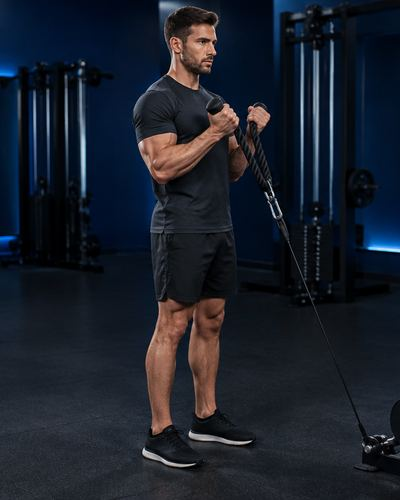
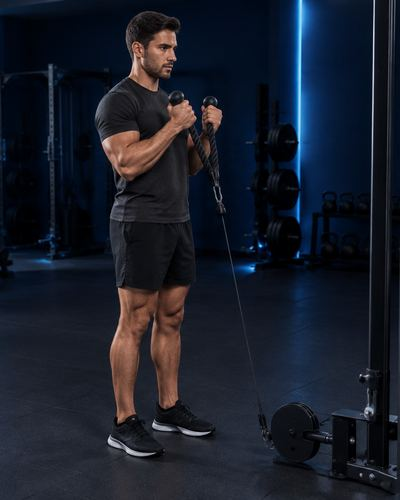
Übungsfotos nach Trainerprüfung neu, Schlafenszeit je Wochentag vor Kalender
Neu erzeugt: Trizepsdrücken einarmig, Curl mit Stange, Hammer Curl mit Seil
und einarmig am Kabel (zum Turm gedreht, Kabel gerade), Hip Thrust an der
Multipresse in der Endposition, Reverse Fly und Rudern eng und breit auf der
Schrägbank mit Brust auf dem Polster, Bankdrücken an der Multipresse.
Pushdown liegend jetzt auf der Schrägbank im Winkel des Kabels mit gerader
Stange.

Die Schlafenszeit je Wochentag aus daevo geht einem SLEEP Eintrag im
Kalender vor. Nach dem Speichern des Profils werden die Mitteilungen neu
geplant.

Claude-Session: https://claude.ai/code/session_01MPv65TyRWfLE6TBM7iE6xk

diff --git a/apps/pwa/js/mitteilungen.js b/apps/pwa/js/mitteilungen.js
@@ -13,17 +13,21 @@
  *
  * Kein `document`, kein `window`: das Modul läuft auch in den Tests.
  */
-import { LUECKE_UHRZEIT, NACHFRAGE_UHRZEIT, erinnerungAmTag, erinnerungUhrzeit, impulseFuerTag, morgenUhrzeit, nachfrageNoetig, schlafenszeitAusKalender, tagesrandFuer } from "@daevo/core";
+import { LUECKE_UHRZEIT, NACHFRAGE_UHRZEIT, erinnerungAmTag, erinnerungUhrzeit, impulseFuerTag, morgenUhrzeit, nachfrageNoetig, schlafenszeitAusKalender, tagesrandFuer, wochentagVon } from "@daevo/core";
 
 /**
- * Aufsteh und Schlafenszeit eines Tages für die Mitteilungen. Steht abends ein
- * Eintrag wie "SLEEP" im Kalender, gilt dessen Beginn, denn wer seinen Schlaf
- * so plant, plant ihn je Tag. Nur eine Ausnahme, die für genau diesen Tag
- * gesagt wurde ("heute gehe ich um 23 Uhr ins Bett"), wiegt mehr.
+ * Aufsteh und Schlafenszeit eines Tages für die Mitteilungen. Was der Nutzer
+ * in daevo eingetragen hat, gilt zuerst: die Ausnahme für genau diesen Tag,
+ * dann die Zeit je Wochentag aus dem Profil. Erst wenn dort für diesen Tag
+ * nichts steht, zählt ein Eintrag wie "SLEEP" im Kalender, und danach der
+ * Schnitt. Der Betreiber pflegt seine Zeiten je Tag in der App, und ein
+ * Kalendereintrag darf sie nicht still überschreiben.
  */
 export function randMitKalender(profil, tag, termine = []) {
   const rand = tagesrandFuer(profil, tag);
   if (profil.tagesausnahmen?.[tag]?.sleepTime) return rand;
+  const wt = wochentagVon(tag);
+  if (profil.randModus === "wochentag" && wt !== null && profil.wochenraender?.[String(wt)]?.sleepTime) return rand;
   const ausKalender = schlafenszeitAusKalender(termine, tag);
   return ausKalender ? { ...rand, sleepTime: ausKalender } : rand;
 }

diff --git a/apps/pwa/js/uebungen-daten.js b/apps/pwa/js/uebungen-daten.js
@@ -2701,8 +2701,8 @@ export const UEBUNGEN = [
  },
  {
   "id": "trizeps-pushdown-abgelegt",
-  "name": "Trizeps Pushdown liegend auf der Bank",
-  "nameEn": "Lying Cable Triceps Pushdown",
+  "name": "Trizeps Pushdown liegend auf der Schrägbank",
+  "nameEn": "Lying Incline Cable Triceps Pushdown",
   "pattern": "elbow_extension",
   "primaryMuscles": [
    "Trizeps"
@@ -2713,23 +2713,24 @@ export const UEBUNGEN = [
   "mechanics": "isolation",
   "repRange": "10-15",
   "steps": [
-   "Flachbank vor den Kabelturm, auf den Rücken legen, Kopf zum Turm, Kabel oben",
-   "Schulterbreite Stange im Obergriff auf Kinnhöhe, Ellbogen eng am Körper",
+   "Schrägbank vor den Kabelturm, hohes Ende zum Turm, so steil, dass das Kabel parallel zur Lehne läuft",
+   "Rücklings auf die Bank, gerade Stange schulterbreit im Obergriff auf Kinnhöhe",
    "Stange parallel zum Oberkörper nach unten drücken, bis die Arme gestreckt sind",
-   "Eng am Oberkörper entlang zurück bis auf Kinnhöhe führen"
+   "Eng am Oberkörper entlang zurück bis auf Kinnhöhe, Ellbogen bleiben am Körper"
   ],
   "gruppe": "arme",
   "video": {
-   "id": "BetlNLcfj70",
-   "titel": "Trizeps liegend auf der Flachbank mit dem Seilzug",
+   "id": "ydFzbnIIjlc",
+   "titel": "Trizepsdrücken auf der Schrägbank sitzend am Kabelzug",
    "kanal": "Masterfitness Academy",
-   "dauer": "0:33"
+   "dauer": "0:18"
   },
   "alias": [
    "Pushdown abgelegt",
    "Pushdown auf der Bank",
    "Pushdown liegend",
-   "Trizepsdrücken liegend"
+   "Trizepsdrücken liegend",
+   "Pushdown Schrägbank"
   ]
  },
  {

diff --git a/apps/pwa/js/healthkit.test.js b/apps/pwa/js/healthkit.test.js
@@ -157,6 +157,21 @@ test("vor dem Schlafen folgt der Schlafenszeit des Tages, auch aus einem SLEEP E
   assert.equal(plan.find((m) => m.id === `runterfahren-${HEUTE}`).uhrzeit, "23:00", "Runterfahren 45 Minuten vor 23:45");
 });
 
+test("die Schlafenszeit je Wochentag aus daevo geht dem Kalender vor", async () => {
+  frisch();
+  const { mitteilungsPlan } = await import("./mitteilungen.js");
+  const ms = (tag, hhmm) => new Date(`${tag}T${hhmm}:00`).getTime();
+  store.setSettings({ ...store.getSettings(), eigeneErinnerungen: [{ id: "sup", text: "Schlaf Supplements", bezug: "schlafen", versatz: -60, tage: [] }] });
+  store.setKalender({ termine: [{ uid: "s1", titel: "SLEEP", ort: "", von: ms(HEUTE, "23:45"), bis: ms("2026-10-20", "07:00"), ganztags: false }] });
+  // 2026-10-19 ist ein Montag.
+  store.setProfile({ ...store.getProfile(), randModus: "wochentag", wochenraender: { "1": { sleepTime: "22:30" }, "2": { sleepTime: "00:15" } } });
+  const plan = mitteilungsPlan({ store, jetzt: { tag: HEUTE, uhrzeit: "06:00" } });
+  const zeit = (tag) => plan.find((m) => m.id === `eigene-sup-${tag}`)?.uhrzeit;
+  assert.equal(zeit(HEUTE), "21:30", "Montag laut daevo 22:30, der Kalender zählt nicht");
+  assert.equal(zeit("2026-10-20"), "23:15", "Dienstag laut daevo 00:15");
+  assert.equal(zeit("2026-10-21"), "22:00", "Mittwoch ohne Eintrag: Schnitt 23:00");
+});
+
 /* ---------- Ernährung aus Apple Health ---------- */
 
 const { ernaehrungSchreiben, nahrungZusammenlegen, NAHRUNG_GLEICH_MINUTEN } = await import("./healthkit.js");

diff --git a/apps/pwa/js/app.js b/apps/pwa/js/app.js
@@ -4509,6 +4509,9 @@ $("btnSaveProfile").addEventListener("click", () => {
   store.setProfile(profile);
   renderProfile();
   refreshAll();
+  // Neue Schlafenszeiten verschieben die Erinnerungen vor dem Schlafen und das
+  // Runterfahren. Ohne neues Planen kämen sie bis zum nächsten Öffnen zur alten Zeit.
+  mitteilungenNativ();
   toast("Gespeichert");
 });
 

diff --git a/apps/pwa/sw.js b/apps/pwa/sw.js
@@ -6,7 +6,7 @@
  * ist der einzige Weg, den Nutzer zu erreichen, waehrend die App geschlossen
  * ist. Siehe workers/push.
  */
-const CACHE = "daevo-v117";
+const CACHE = "daevo-v118";
 const ASSETS = [
   "./",
   "./index.html",

diff --git a/CLAUDE.md b/CLAUDE.md
@@ -262,8 +262,9 @@ Strichfiguren, keine Clip Art, keine Karten mit Rahmen um Text.
   auch ohne Leerzeichen im Namen ("überkopf" findet "über Kopf") und ohne
   Plural-s ("Pushdowns"), `trifft` in `uebungen.js`. Vorher fand "Multipresse"
   nichts und "Trizeps Extensions überkopf" nicht das Trizepsstrecken über Kopf.
-- Am Kabel gibt es Pushdown beidarmig, einarmig und liegend auf der Bank (Kopf zum Turm,
-  schulterbreite Stange am Oberkörper entlang bis zur Streckung),
+- Am Kabel gibt es Pushdown beidarmig, einarmig und liegend auf der Schrägbank
+  (rücklings, Kopf zum Turm, die Lehne im Winkel des Kabels, gerade Stange
+  wie beim Curl am Oberkörper entlang bis zur Streckung und zurück bis Kinnhöhe),
   Curl mit Stange, Hammer Curl mit Seil und einarmig, Seitheben einarmig,
   Reverse Butterfly, Butterfly sitzend, Cable Fly von unten nach oben und von
   oben nach unten, Kickback einbeinig und seitlich für den Gluteus medius. Auf
@@ -274,6 +275,13 @@ Strichfiguren, keine Clip Art, keine Karten mit Rahmen um Text.
   von sieben Übungen längs zum Körper statt quer über Schultern, Brust oder
   Hüfte, und das fiel erst dem Nutzer auf. Beim Prüfen eines neuen Fotos
   zuerst nachsehen, wie die Stange zum Körper liegt, dann die Gelenkwinkel.
+- Am Kabel steht die Person zum Turm gedreht und nah davor, das Kabel läuft
+  gerade von der Rolle zur Hand. Weit weg vom Turm oder seitlich dazu lief
+  es schräg durchs Bild, und der Griff hing neben der Hand. Ein Foto, das
+  anatomisch oder biomechanisch nicht stimmt, kommt nicht hinein, auch wenn
+  es sonst gut aussieht: lieber neu erzeugen, je zwei Fassungen, und die
+  bessere nehmen. Beim Hip Thrust half das vorhandene Foto mit Langhantel als
+  Vorlage, mit der Anweisung, nur das Gerät zu tauschen.
 
 ### Trainingspläne
 
@@ -608,7 +616,7 @@ nicht mehr gibt, fallen beim Laden heraus.
 
 ```bash
 npm install
-npm test           # 1296 Tests
+npm test           # 1297 Tests
 npm run serve:pwa  # Web App auf http://localhost:8080
 npm run dev        # API auf http://localhost:8787
 npm run build:pwa  # statische Ausgabe nach dist-pages
